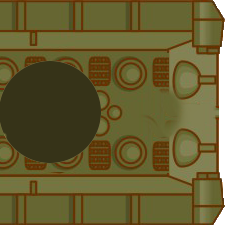
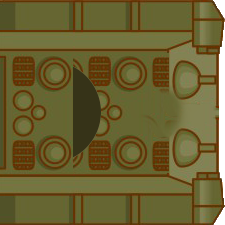
header f** ready

Changed region(s): [[0.0, 0.2489, 0.3422, 0.8711], [0.0622, 0.0, 0.1867, 0.2178], [0.0622, 0.8711, 0.1244, 0.9956]]

diff --git a/js/components/tank/headerTank.js b/js/components/tank/headerTank.js
@@ -17,12 +17,10 @@ HeaderTank.prototype.paint = function(x, y, dgr) {
   this.y = y
   this.degree = dgr
   // change the center point
-  // 0 degrees
   this.rotX = this.width / -5;
   this.rotY = this.height / -2;
-  // 90 degrees
-  // this.rotX = this.width / -5
-  // this.rotY = this.width / -2
+
+  // 180 degrees
   this.update()
   // this.myBullet = undefined;
 }
@@ -33,14 +31,7 @@ HeaderTank.prototype.turnRight = function(){
 HeaderTank.prototype.turnLeft = function(){ 
   this.degree -= 5;
 }
-HeaderTank.prototype.update = function () {  
-  canvas.context.save();
-  canvas.context.translate(this.x + this.rotX, this.y); 
-  canvas.context.rotate(this.degree * (Math.PI / 180));
-  // canvas.context.drawImage(this.imageComp, this.rotX , this.rotY, this.width, this.height);
-  canvas.context.drawImage(this.imageComp, this.rotX , this.rotY, this.width, this.height);
-  canvas.context.restore(); 
-}
+
 
 // HeaderTank.prototype.shot = function() {
 //   if(!this.myBullet){

diff --git a/js/components/tank/tank.js b/js/components/tank/tank.js
@@ -24,7 +24,7 @@ Tank.prototype.turnRight = function(){
 }
 Tank.prototype.turnLeft = function(){ 
   this.degree -= 90;
-  this.header.degree = this.header.degree + this.degree
+  // this.header.degree = this.header.degree + this.degree
 }
 // This should go to the header
 Tank.prototype.shot = function() {
